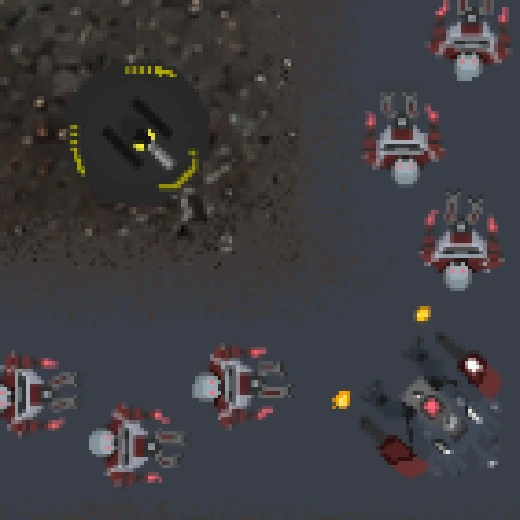
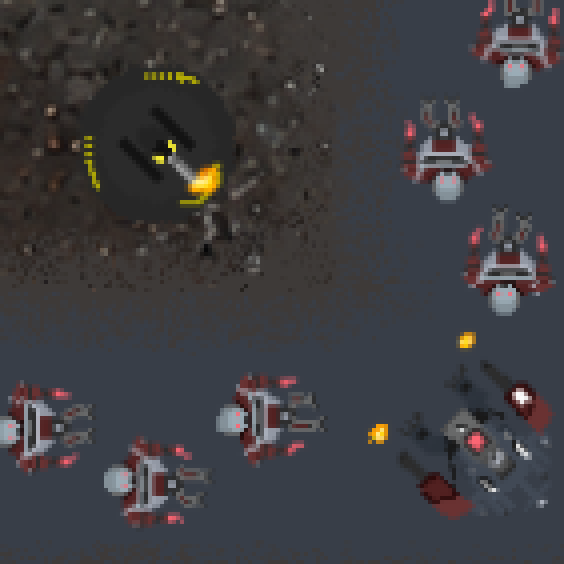
Out of Control thumbnail uses the turret-firing shot with softer plate colouring

diff --git a/js/data.js b/js/data.js
@@ -242,7 +242,7 @@ const SITE_DATA = {
       description: "A simple tower defense game inspired by Helldivers 2, made in C++ with raylib for a school project. It is a demo, with two finished enemies and one turret, all fully animated.",
       technical: "Written in C++ with raylib. The game runs in waves. Enemies move along a path and you place turrets to stop them. Each turret picks the nearest enemy and locks onto it until it goes out of range, which was the most interesting part to code. There are only two finished enemy sprites and one turret, but all of them are fully animated, so it is very much a demo. I made the art, and the project taught me a lot about asset design and how a game's systems fit together.",
       tags: ["C++", "raylib", "Game Design"],
-      thumbnail: { src: "images/projects/out-of-control-thumb.webp", alt: "A line of red enemy ships marching along a path past a turret in a dark, rocky battlefield" },
+      thumbnail: { src: "images/projects/out-of-control-thumb.webp", alt: "A turret firing at a line of red enemy ships marching along a path in a dark, rocky battlefield", pixel: true, soft: true },
       links: [
         { label: "GitHub", url: "https://github.com/A-Nature/outofcontrol" }
       ],

diff --git a/index.html b/index.html
@@ -48,7 +48,7 @@
 <link rel="preconnect" href="https://fonts.gstatic.com" crossorigin>
 <link href="https://fonts.googleapis.com/css2?family=Inter:wght@400;500;600;700&family=JetBrains+Mono:wght@400;500;600&family=Caveat:wght@600&display=swap" rel="stylesheet">
 
-<link rel="stylesheet" href="css/style.css?v=90">
+<link rel="stylesheet" href="css/style.css?v=92">
 </head>
 <body>
 
@@ -268,12 +268,12 @@
   </div>
 </div>
 
-<script src="js/data.js?v=90"></script>
-<script src="js/icons.js?v=90"></script>
-<script src="js/boids.js?v=90"></script>
-<script src="js/starfield.js?v=90"></script>
-<script src="js/lightbox.js?v=90"></script>
-<script src="js/fossils.js?v=90"></script>
-<script src="js/main.js?v=90"></script>
+<script src="js/data.js?v=92"></script>
+<script src="js/icons.js?v=92"></script>
+<script src="js/boids.js?v=92"></script>
+<script src="js/starfield.js?v=92"></script>
+<script src="js/lightbox.js?v=92"></script>
+<script src="js/fossils.js?v=92"></script>
+<script src="js/main.js?v=92"></script>
 </body>
 </html>

diff --git a/js/main.js b/js/main.js
@@ -393,7 +393,7 @@ function renderProjects() {
 
       const tags = (project.tags || []).slice(0, 3).join(" · ");
       card.innerHTML = `
-        <span class="fossil-relief${cover ? " has-cover" : ""}">${art}</span>
+        <span class="fossil-relief${cover ? " has-cover" : ""}${cover && cover.soft ? " soft" : ""}">${art}</span>
         <span class="fossil-info">
           <span class="fossil-catalog">Specimen Nº ${String(specimenNo).padStart(3, "0")}</span>
           <span class="project-name">${escapeHTML(project.name)}</span>

diff --git a/css/style.css b/css/style.css
@@ -1807,6 +1807,9 @@ body.no-canvas .site-bg-fallback { display: block; }
 /* Pixel art stays crisp when it is scaled up. */
 .slide img.pixel,
 .fossil-cover.pixel { image-rendering: pixelated; }
+/* A thumbnail marked soft keeps more of its own colour under the fossil plate. */
+.fossil-relief.soft .fossil-cover { filter: grayscale(0.35) sepia(0.4) contrast(1.08) brightness(0.95); }
+.fossil-relief.soft::after { opacity: 0.5; }
 .window-credits { color: var(--color-text-muted); font-size: 0.9rem; }
 
 .slide-embed {
